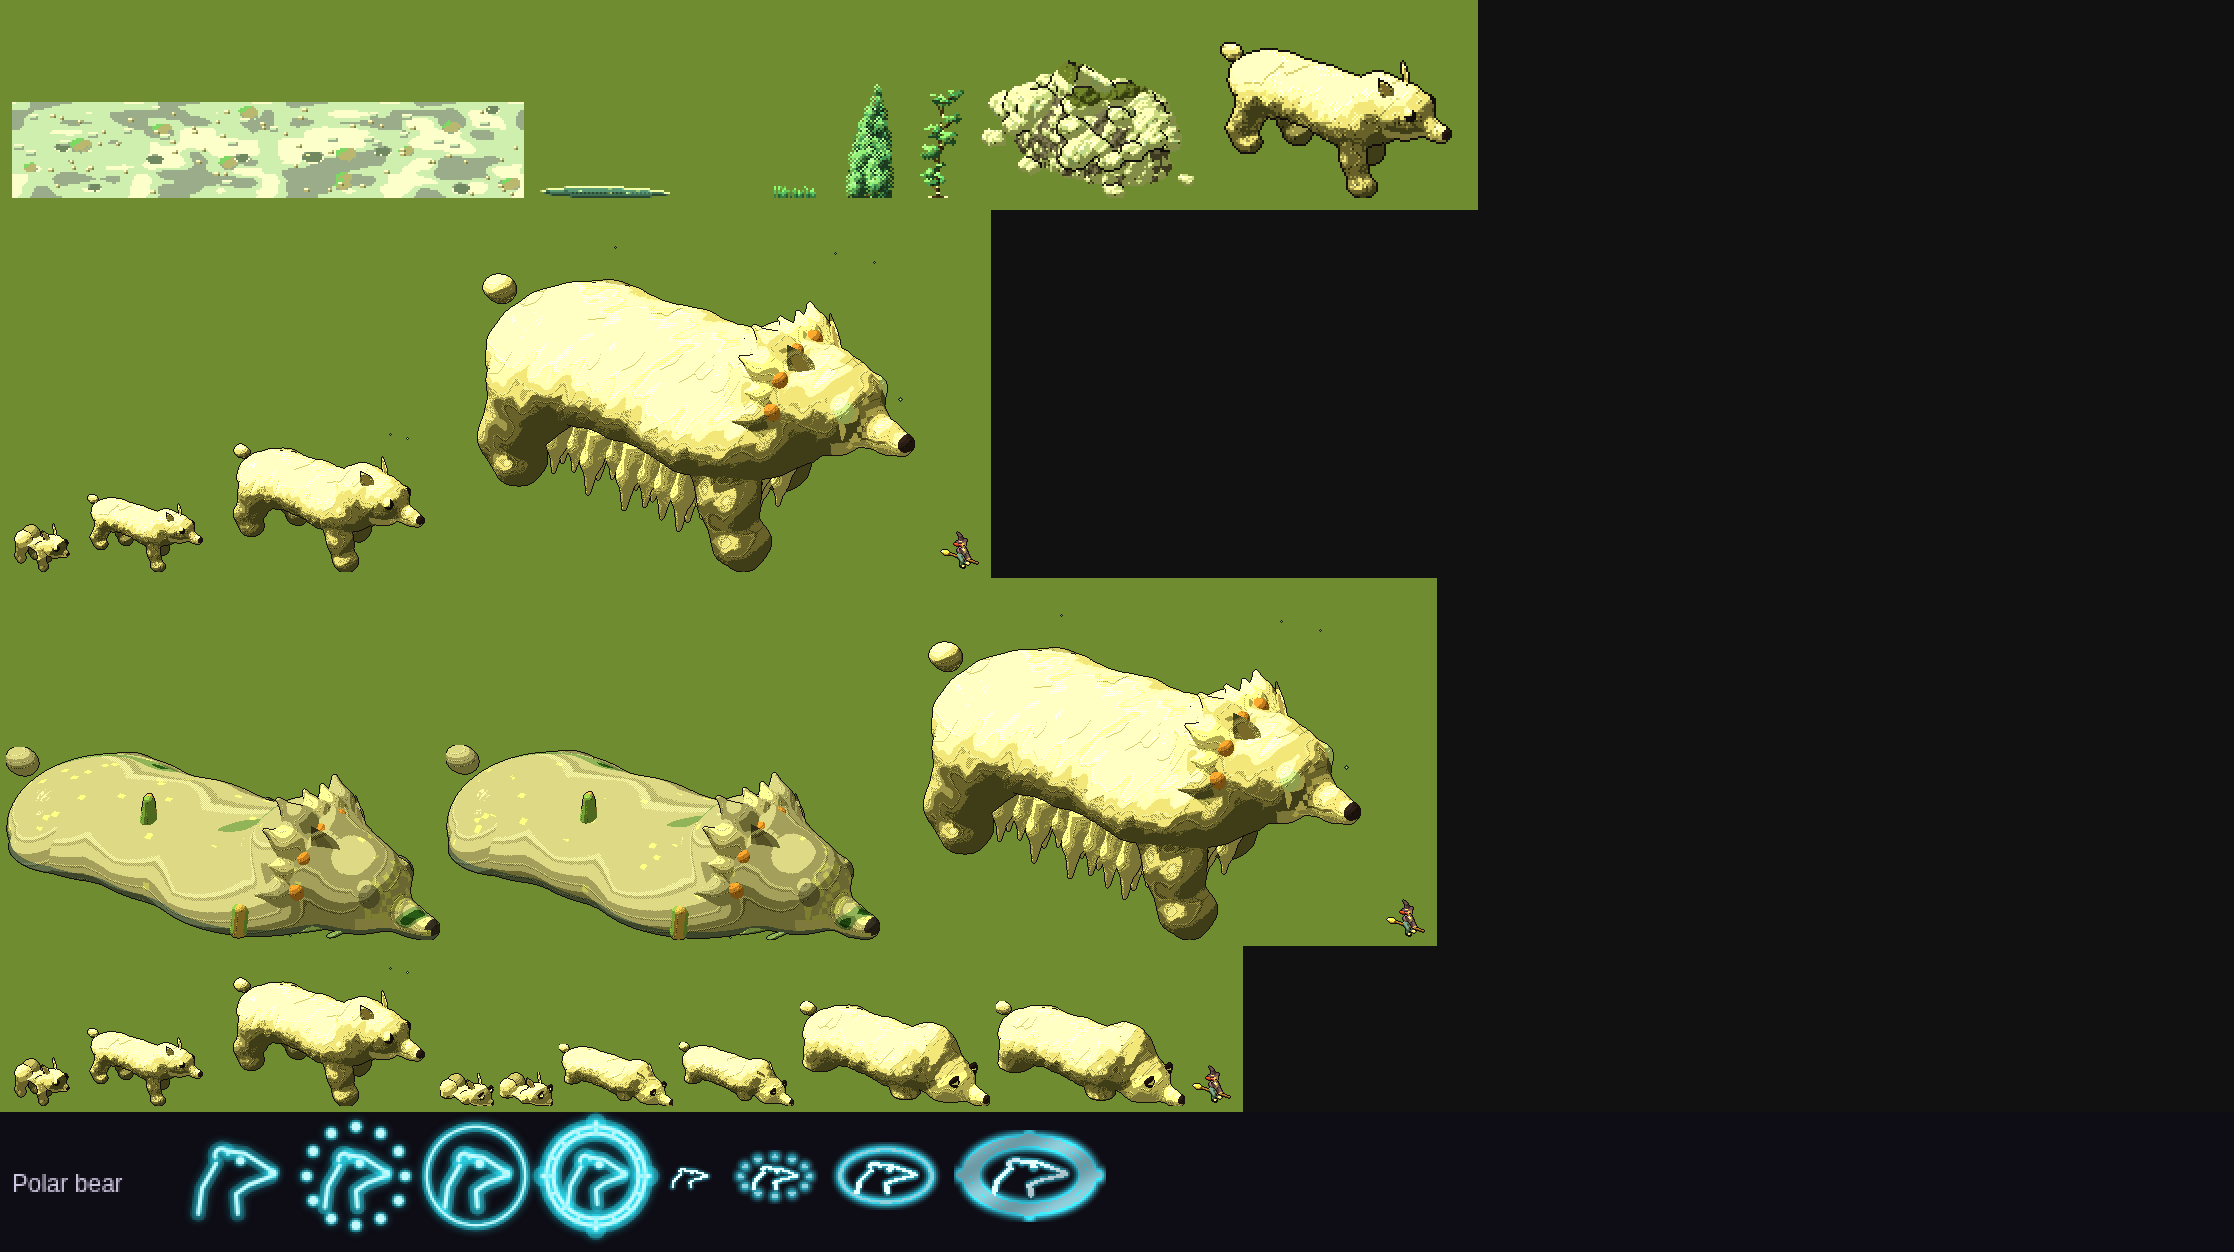
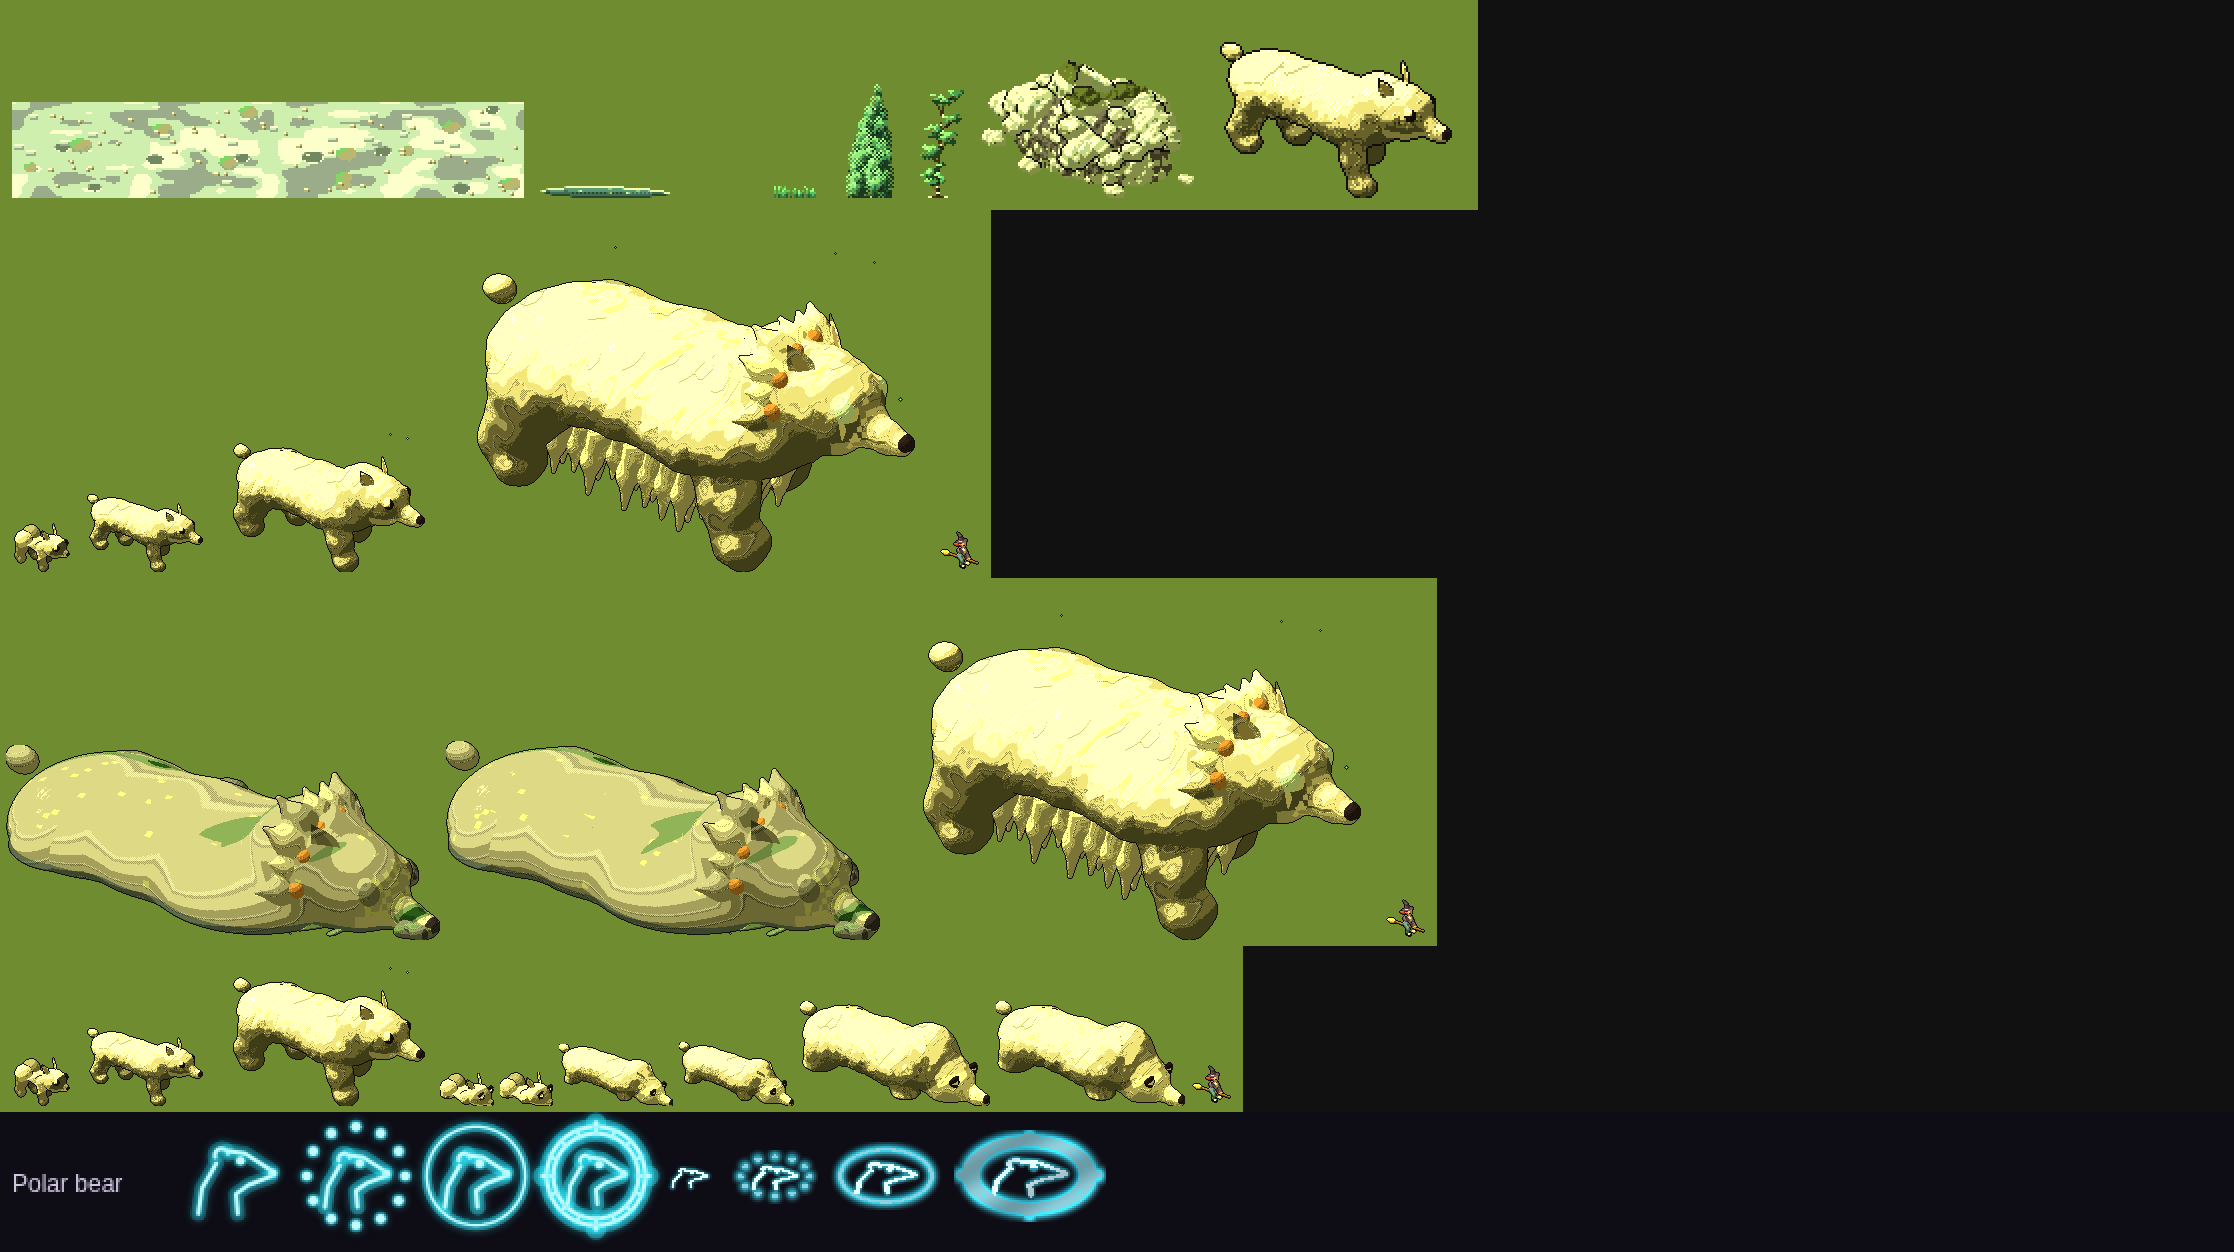
Sleeping legend: no grass stakes or roots poking out of it (they read as pegs), moss instead
Claude-Session: https://claude.ai/code/session_01Bjkncrw3UwUjcmr8Y3vdKy

Changed region(s): [[0.0, 0.5919, 0.4015, 0.7476]]

diff --git a/art/legends.js b/art/legends.js
@@ -51,7 +51,7 @@ export const LEGEND_POSES = {
   armadillo: { ground: .2, droop: .4, drop: [], over: { moss: .1, lichen: .25, ferns: 0, grass: 3, mushrooms: 0, roots: 1, stones: 4 } }, // the scrub wash's armadillo (an area recipe's): its shell sunk in cracked clay like a boulder
   meerkat: { sink: .55, droop: 1, drop: [3], over: { moss: .1, lichen: .2, ferns: 0, grass: 3, mushrooms: 0, roots: 1, stones: 5 } }, // the warren's meerkat (an area recipe's): sunk in red sand, stones and dry grass over it
   newt: { sink: .6, droop: 1, drop: [60, 61], over: { moss: .3, lichen: .08, ferns: 1, grass: 3, mushrooms: 1, roots: 1, stones: 2 } }, // the fen's newt (an area recipe's): sunk in peat, sedge over it
-  polarbear: { sink: .5, droop: .9, drop: [], over: { moss: .2, lichen: .02, ferns: 0, grass: 2, mushrooms: 0, roots: 0, stones: 5 } }, // the pack ice's polar bear (an area recipe's): sunk in the ice like a drift of old snow, its long coat laid back over it
+  polarbear: { sink: .5, droop: .9, drop: [], over: { moss: .25, lichen: .02, ferns: 0, grass: 0, mushrooms: 0, roots: 0, stones: 5 } }, // the pack ice's polar bear (an area recipe's): sunk in the ice like a drift of old snow, its long coat laid back over it
   heron: { ground: .68, droop: 0, fold: 1, drop: [95, 96, 97, 98, 99, 100, 101], over: { moss: .35, lichen: .1, ferns: 1, grass: 4, mushrooms: 1, roots: 2, stones: 2, nest: true } }, // the heronry's heron (an area recipe's): folded down in the reeds, its neck laid along its back, a nest of sticks on it
   cheetah: { sink: .42, droop: 1, drop: [70, 71], over: { moss: .06, lichen: .12, ferns: 0, grass: 4, mushrooms: 0, roots: 1, stones: 3 } }, // the plains' cheetah (an area recipe's): stretched long in the short grass, its spots gone to lichen
   lion: { sink: .4, droop: 1, drop: [70, 71], over: { moss: .1, lichen: .14, ferns: 0, grass: 4, mushrooms: 0, roots: 1, stones: 4 } }, // the savanna's lion (an area recipe's): lying like a kopje in the long grass, its mane gone to dry grass and lichen

diff --git a/tools/art-lab/dist/witch-art-lab.html b/tools/art-lab/dist/witch-art-lab.html
@@ -12057,7 +12057,7 @@ const LEGEND_POSES = {
   armadillo: { ground: .2, droop: .4, drop: [], over: { moss: .1, lichen: .25, ferns: 0, grass: 3, mushrooms: 0, roots: 1, stones: 4 } }, // the scrub wash's armadillo (an area recipe's): its shell sunk in cracked clay like a boulder
   meerkat: { sink: .55, droop: 1, drop: [3], over: { moss: .1, lichen: .2, ferns: 0, grass: 3, mushrooms: 0, roots: 1, stones: 5 } }, // the warren's meerkat (an area recipe's): sunk in red sand, stones and dry grass over it
   newt: { sink: .6, droop: 1, drop: [60, 61], over: { moss: .3, lichen: .08, ferns: 1, grass: 3, mushrooms: 1, roots: 1, stones: 2 } }, // the fen's newt (an area recipe's): sunk in peat, sedge over it
-  polarbear: { sink: .5, droop: .9, drop: [], over: { moss: .2, lichen: .02, ferns: 0, grass: 2, mushrooms: 0, roots: 0, stones: 5 } }, // the pack ice's polar bear (an area recipe's): sunk in the ice like a drift of old snow, its long coat laid back over it
+  polarbear: { sink: .5, droop: .9, drop: [], over: { moss: .25, lichen: .02, ferns: 0, grass: 0, mushrooms: 0, roots: 0, stones: 5 } }, // the pack ice's polar bear (an area recipe's): sunk in the ice like a drift of old snow, its long coat laid back over it
   heron: { ground: .68, droop: 0, fold: 1, drop: [95, 96, 97, 98, 99, 100, 101], over: { moss: .35, lichen: .1, ferns: 1, grass: 4, mushrooms: 1, roots: 2, stones: 2, nest: true } }, // the heronry's heron (an area recipe's): folded down in the reeds, its neck laid along its back, a nest of sticks on it
   cheetah: { sink: .42, droop: 1, drop: [70, 71], over: { moss: .06, lichen: .12, ferns: 0, grass: 4, mushrooms: 0, roots: 1, stones: 3 } }, // the plains' cheetah (an area recipe's): stretched long in the short grass, its spots gone to lichen
   lion: { sink: .4, droop: 1, drop: [70, 71], over: { moss: .1, lichen: .14, ferns: 0, grass: 4, mushrooms: 0, roots: 1, stones: 4 } }, // the savanna's lion (an area recipe's): lying like a kopje in the long grass, its mane gone to dry grass and lichen
